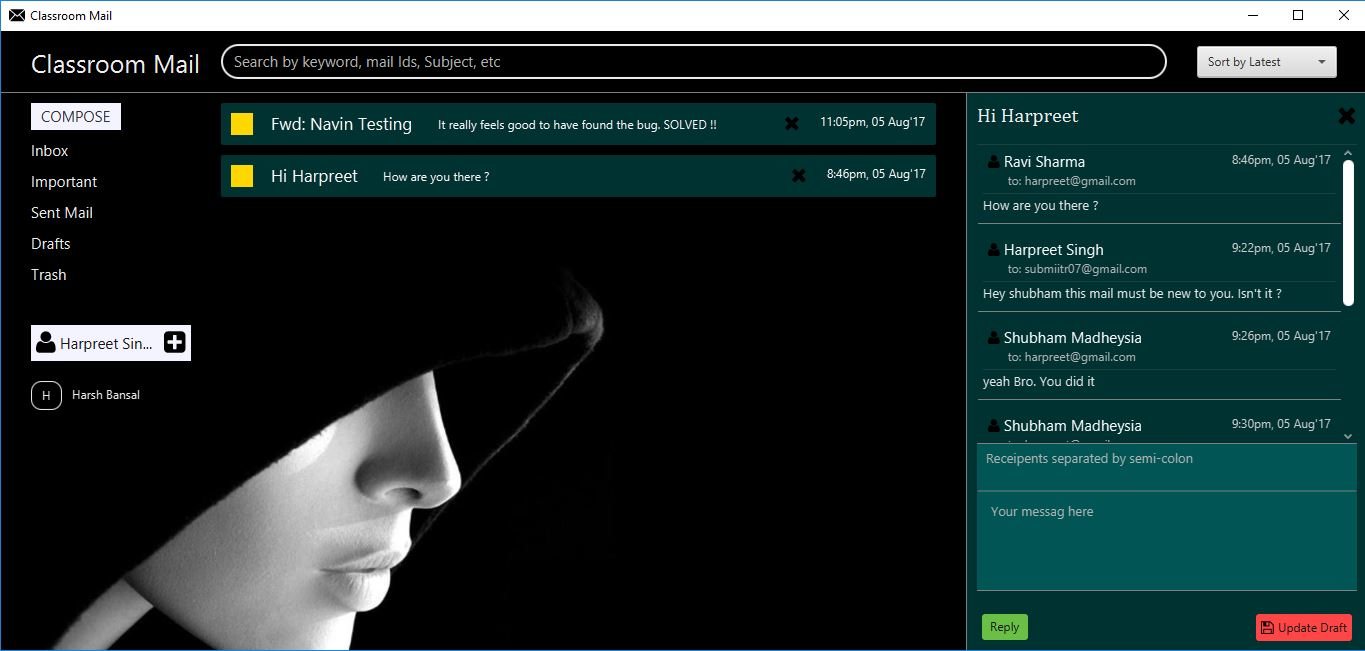
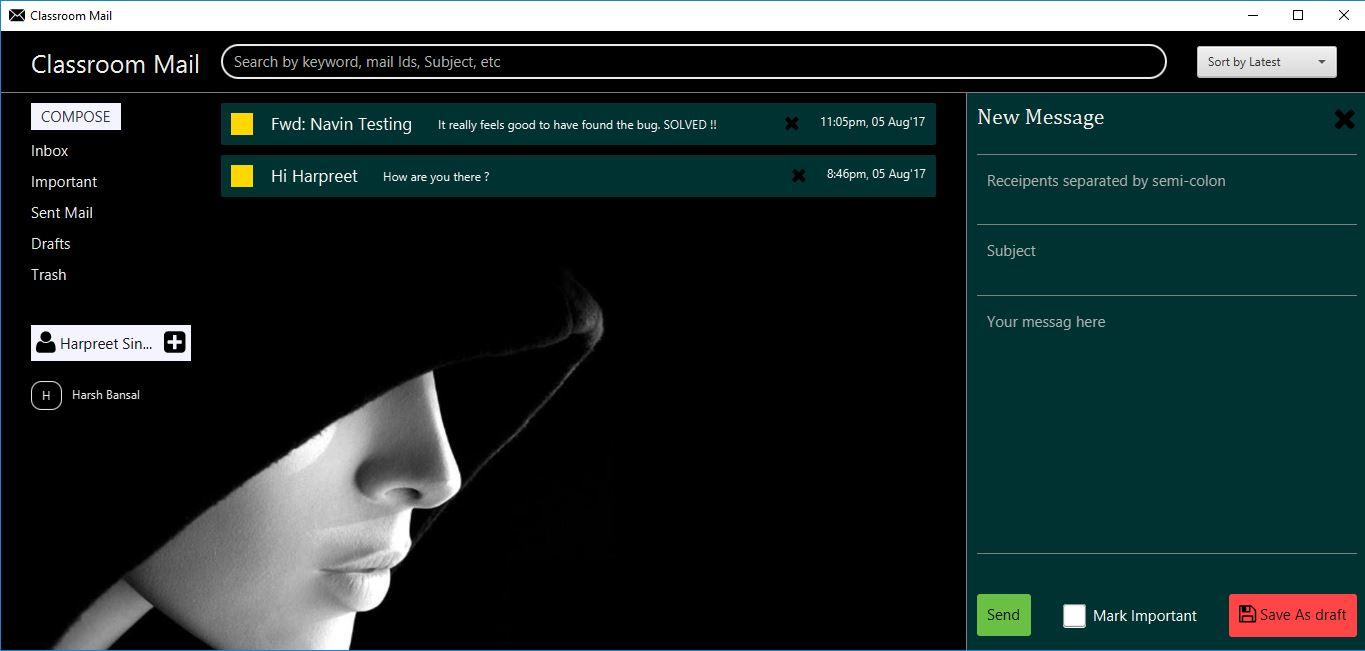
feature - Sent, Trash, Drafts working, Screenshot added

diff --git a/src/com/ClassroomMail/database/mails/fetchMails.java b/src/com/ClassroomMail/database/mails/fetchMails.java
@@ -18,29 +18,46 @@ public class fetchMails {
         PreparedStatement stmt = null;
         ResultSet rs = null;
 
-        VBox mailList = new VBox(10);
+        VBox mailList = new VBox(0);
 
+        String tableName = "";
         String whereClause = "";
+        String otherClause = "";
+
+        String subjectId;
+        String messageTimestamp;
+        String message;
+        String[] response;
+
         switch (title) {
             case "Inbox":
-            case "Important":
-                whereClause = "receiverMail LIKE '%" + mailId + "%'";
+                tableName = " classroommail.mails ";
+                whereClause = " receiverMail LIKE '%" + mailId + "%' ";
+                otherClause = " GROUP BY subjectId "+filter ;
                 break;
             case "Sent Mail":
+                tableName = " classroommail.mails ";
                 whereClause = "senderMail LIKE '%" + mailId + "%'";
+                otherClause = " GROUP BY subjectId "+filter ;
+                break;
+            case "Important":
+                tableName = " classroommail.mails ";
+                whereClause = " receiverMail LIKE '%" + mailId + "%' OR senderMail LIKE '%" + mailId + "%'";
+                otherClause = " GROUP BY subjectId "+filter ;
                 break;
             case "Drafts":
-                whereClause = "receiverMail LIKE '%" + mailId + "%'";
+                tableName = " classroommail.subjectdetails ";
+                whereClause = " mailId = '" + mailId + "' AND isDraft = 'true' ";
+                otherClause = " ORDER BY draftTimestamp "+ filter.substring(filter.length()-4) ;
                 break;
             case "Trash":
-                whereClause = "receiverMail LIKE '%" + mailId + "%'";
+                tableName = " classroommail.mails ";
+                whereClause = " receiverMail LIKE '%" + mailId + "%' OR senderMail LIKE '%" + mailId + "%'";
+                otherClause = " GROUP BY subjectId "+filter ;
                 break;
         }
 
-        String query = DBUtils.prepareSelectQuery(" * ",
-                "classroommail.mails",
-                whereClause+"",
-                " GROUP BY subjectId "+filter );
+        String query = DBUtils.prepareSelectQuery(" * ",tableName,whereClause,otherClause );
 
         try {
             con = DBUtils.getConnection();
@@ -53,29 +70,37 @@ public class fetchMails {
 
             if (size>0){
                 while (rs.next()){
-                    String subjectId = rs.getString("subjectId");
-                    String messageTimestamp = rs.getString("messageTimestamp");
-                    String message = rs.getString("message");
 
                     switch (title) {
                         case "Inbox":
                         case "Sent Mail":
-                            mailList.getChildren().addAll(mailThread(subjectId, messageTimestamp, mailId, message));
+                            subjectId = rs.getString("subjectId");
+                            messageTimestamp = rs.getString("messageTimestamp");
+                            message = rs.getString("message");
+                            mailList.getChildren().addAll(mailThread(title,subjectId, messageTimestamp, mailId, message));
                             break;
                         case "Important":
-                            String[] response = fetchThreadDetails.fetchSubjectDetails(subjectId, mailId);
-                            if (response[1].equals("true")) {
-                                mailList.getChildren().addAll(mailThread(subjectId, messageTimestamp, mailId, message));
-                            }
-                            break;
-                        case "Drafts": {
+                            subjectId = rs.getString("subjectId");
+                            messageTimestamp = rs.getString("messageTimestamp");
+                            message = rs.getString("message");
                             response = fetchThreadDetails.fetchSubjectDetails(subjectId, mailId);
+                            if (response[1]!=null && response[1].equals("true"))
+                                mailList.getChildren().addAll(mailThread(title,subjectId, messageTimestamp, mailId, message));
                             break;
-                        }
-                        case "Trash": {
+                        case "Drafts":
+                            subjectId = rs.getString("subjectId");
+                            messageTimestamp = rs.getString("draftTimestamp");
+                            message = rs.getString("draftMessage");
+                            mailList.getChildren().addAll(mailThread(title,subjectId, messageTimestamp, mailId, message));
+                            break;
+                        case "Trash":
+                            subjectId = rs.getString("subjectId");
+                            messageTimestamp = rs.getString("messageTimestamp");
+                            message = rs.getString("message");
                             response = fetchThreadDetails.fetchSubjectDetails(subjectId, mailId);
+                            if (response[2]!=null && response[2].equals("true"))
+                                mailList.getChildren().addAll(mailThread(title,subjectId, messageTimestamp, mailId, message));
                             break;
-                        }
                     }
 
                 }

diff --git a/src/com/ClassroomMail/main/templates/centerPanel/mailThreads.java b/src/com/ClassroomMail/main/templates/centerPanel/mailThreads.java
@@ -24,12 +24,15 @@ public class mailThreads {
 
     public static StackPane mailThreadstag;
 
-    public static BorderPane mailThread(String subjectId, String messageTimestamp, String mailId, String message){
+    public static BorderPane mailThread(String title, String subjectId, String messageTimestamp, String mailId, String message){
 
         String[] response = fetchThreadDetails.fetchSubjectDetails(subjectId,mailId);
 
-        if (response[2].equals("true")) //checking for deleted thread
-            return new BorderPane();
+        if (!title.equals("Trash") && response[2].equals("true")){ //checking for deleted thread
+            BorderPane empty = new BorderPane();
+            empty.setMaxSize(0,0);
+            return empty;
+        }
 
         Label importantTag = new Label();
         if(response[1].equals("true")){
@@ -63,14 +66,23 @@ public class mailThreads {
         HBox mailContent = new HBox(5,subject, lastmessage);
         mailContent.setCursor(Cursor.HAND);
 
-        Label delete = GlyphsDude.createIconLabel( FontAwesomeIcon.CLOSE,
-                "",
-                "20",
-                "0",
-                ContentDisplay.LEFT );
+        Label delete ;
+        if (title.equals("Trash"))
+            delete = GlyphsDude.createIconLabel( FontAwesomeIcon.UNDO,
+                    "",
+                    "20",
+                    "0",
+                    ContentDisplay.LEFT );
+        else
+            delete = GlyphsDude.createIconLabel( FontAwesomeIcon.CLOSE,
+                    "",
+                    "20",
+                    "0",
+                    ContentDisplay.LEFT );
         delete.setPadding(new Insets(10));
         delete.setCursor(Cursor.HAND);
         delete.setAlignment(Pos.BASELINE_RIGHT);
+
 
         Label lastMessageTime = new Label(timeStampChangeFormat.timeStampChangeFormat(messageTimestamp));
         lastMessageTime.setFont(new Font("Open Sans", 12));
@@ -81,9 +93,9 @@ public class mailThreads {
 
         final BorderPane mails = new BorderPane(null, null, new HBox(0, delete, lastMessageTime), null, new HBox(0, mailThreadstag, mailContent));
         if(response[3].equals("true"))
-            mails.setStyle("-fx-background-color: rgba(0, 100, 100, 0.5); -fx-background-radius: 2;");
+            mails.setStyle("-fx-background-color: rgba(0, 100, 100, 0.5); -fx-border-color: grey; -fx-border-width: 0 0 1 0;");
         else
-            mails.setStyle("-fx-background-color: rgba(0, 100, 100, 1); -fx-background-radius: 2;");
+            mails.setStyle("-fx-background-color: rgba(0, 100, 100, 1); -fx-border-color: grey; -fx-border-width: 0 0 1 0;");
 
         main.window.widthProperty().addListener(e-> {
             double width = main.window.getWidth()-480;
@@ -113,15 +125,21 @@ public class mailThreads {
             String status = updateThread.update(subjectId,mailId,"latestMessageRead", "true");
             if (status.equals("success")){
                 rightPane.setTop(threadDetail.mailsRightPanel(subjectId,response[0],mailId));
-                mails.setStyle("-fx-background-color: rgba(0, 100, 100, 0.5); -fx-background-radius: 2;");
+                mails.setStyle("-fx-background-color: rgba(0, 100, 100, 0.5); -fx-background-radius: 2; -fx-border-color: grey; -fx-border-width: 0 0 1 0;");
             }
         });
 
         delete.setOnMouseClicked(e-> {
-            String status = updateThread.update(subjectId,mailId,"deleted", "true");
+            String status;
+            if (title.equals("Trash"))
+                status = updateThread.update(subjectId,mailId,"deleted", "false");
+            else
+                status = updateThread.update(subjectId,mailId,"deleted", "true");
             if (status.equals("success")){
+                mails.setStyle("-fx-border-width: 0 0 0 0;");
                 mails.getChildren().clear();
-                mails.setPrefWidth(0);
+                mails.setPadding(new Insets(0));
+                mails.setPrefSize(0,0);
             }
         });
 

diff --git a/README.md b/README.md
@@ -7,3 +7,5 @@ project for DBMS course Students only
 <img src="https://raw.githubusercontent.com/madHEYsia/ClassroomMail/master/screenshot2.JPG" >
 <img src="https://raw.githubusercontent.com/madHEYsia/ClassroomMail/master/screenshot3.JPG" >
 <img src="https://raw.githubusercontent.com/madHEYsia/ClassroomMail/master/screenshot4.JPG" >
+<img src="https://raw.githubusercontent.com/madHEYsia/ClassroomMail/master/screenshot5.JPG" >
+<img src="https://raw.githubusercontent.com/madHEYsia/ClassroomMail/master/screenshot6.JPG" >
